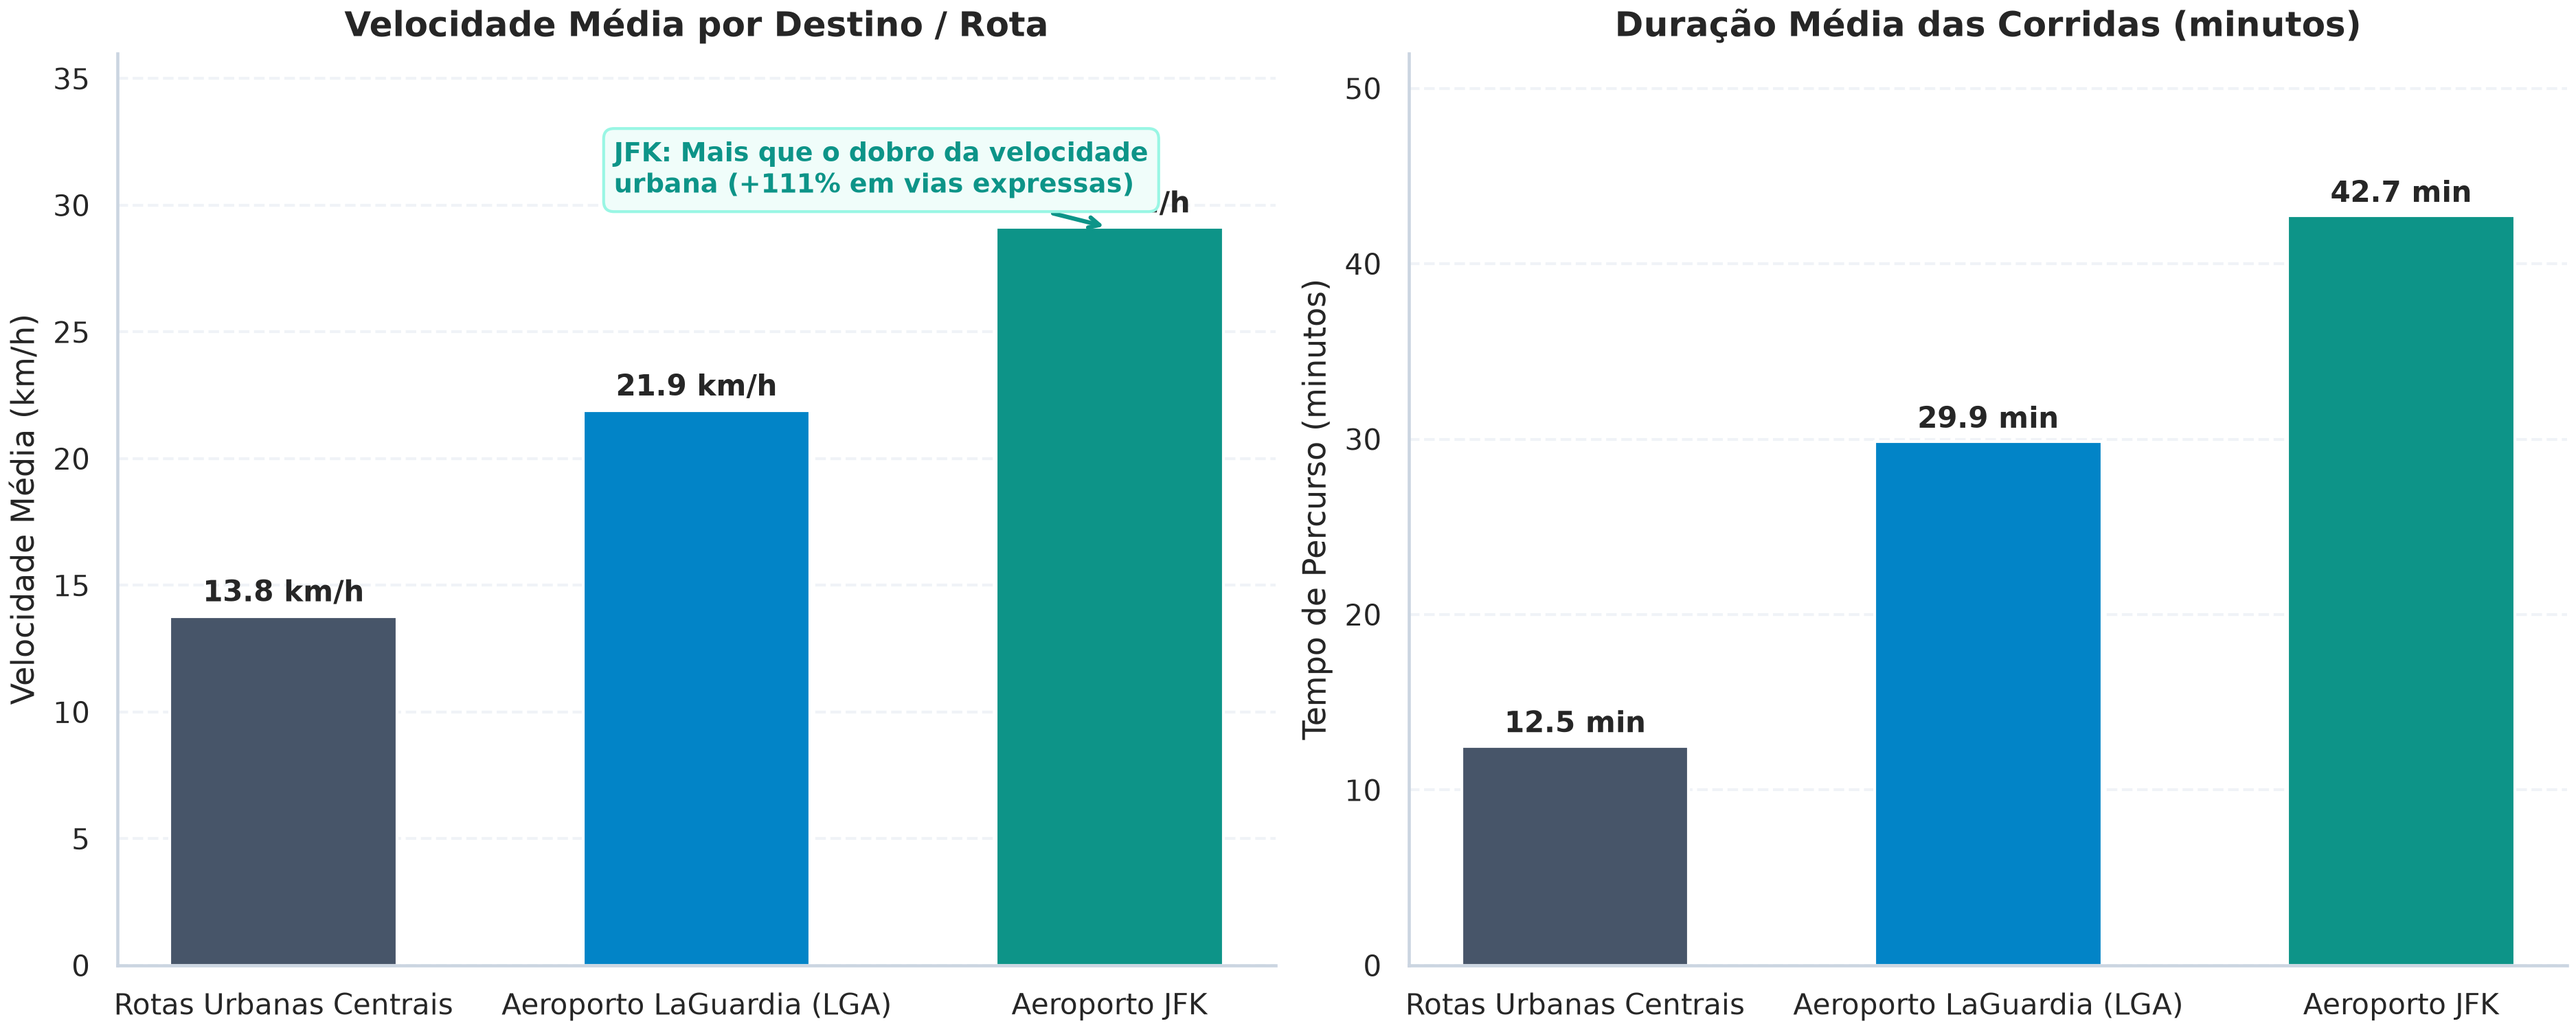
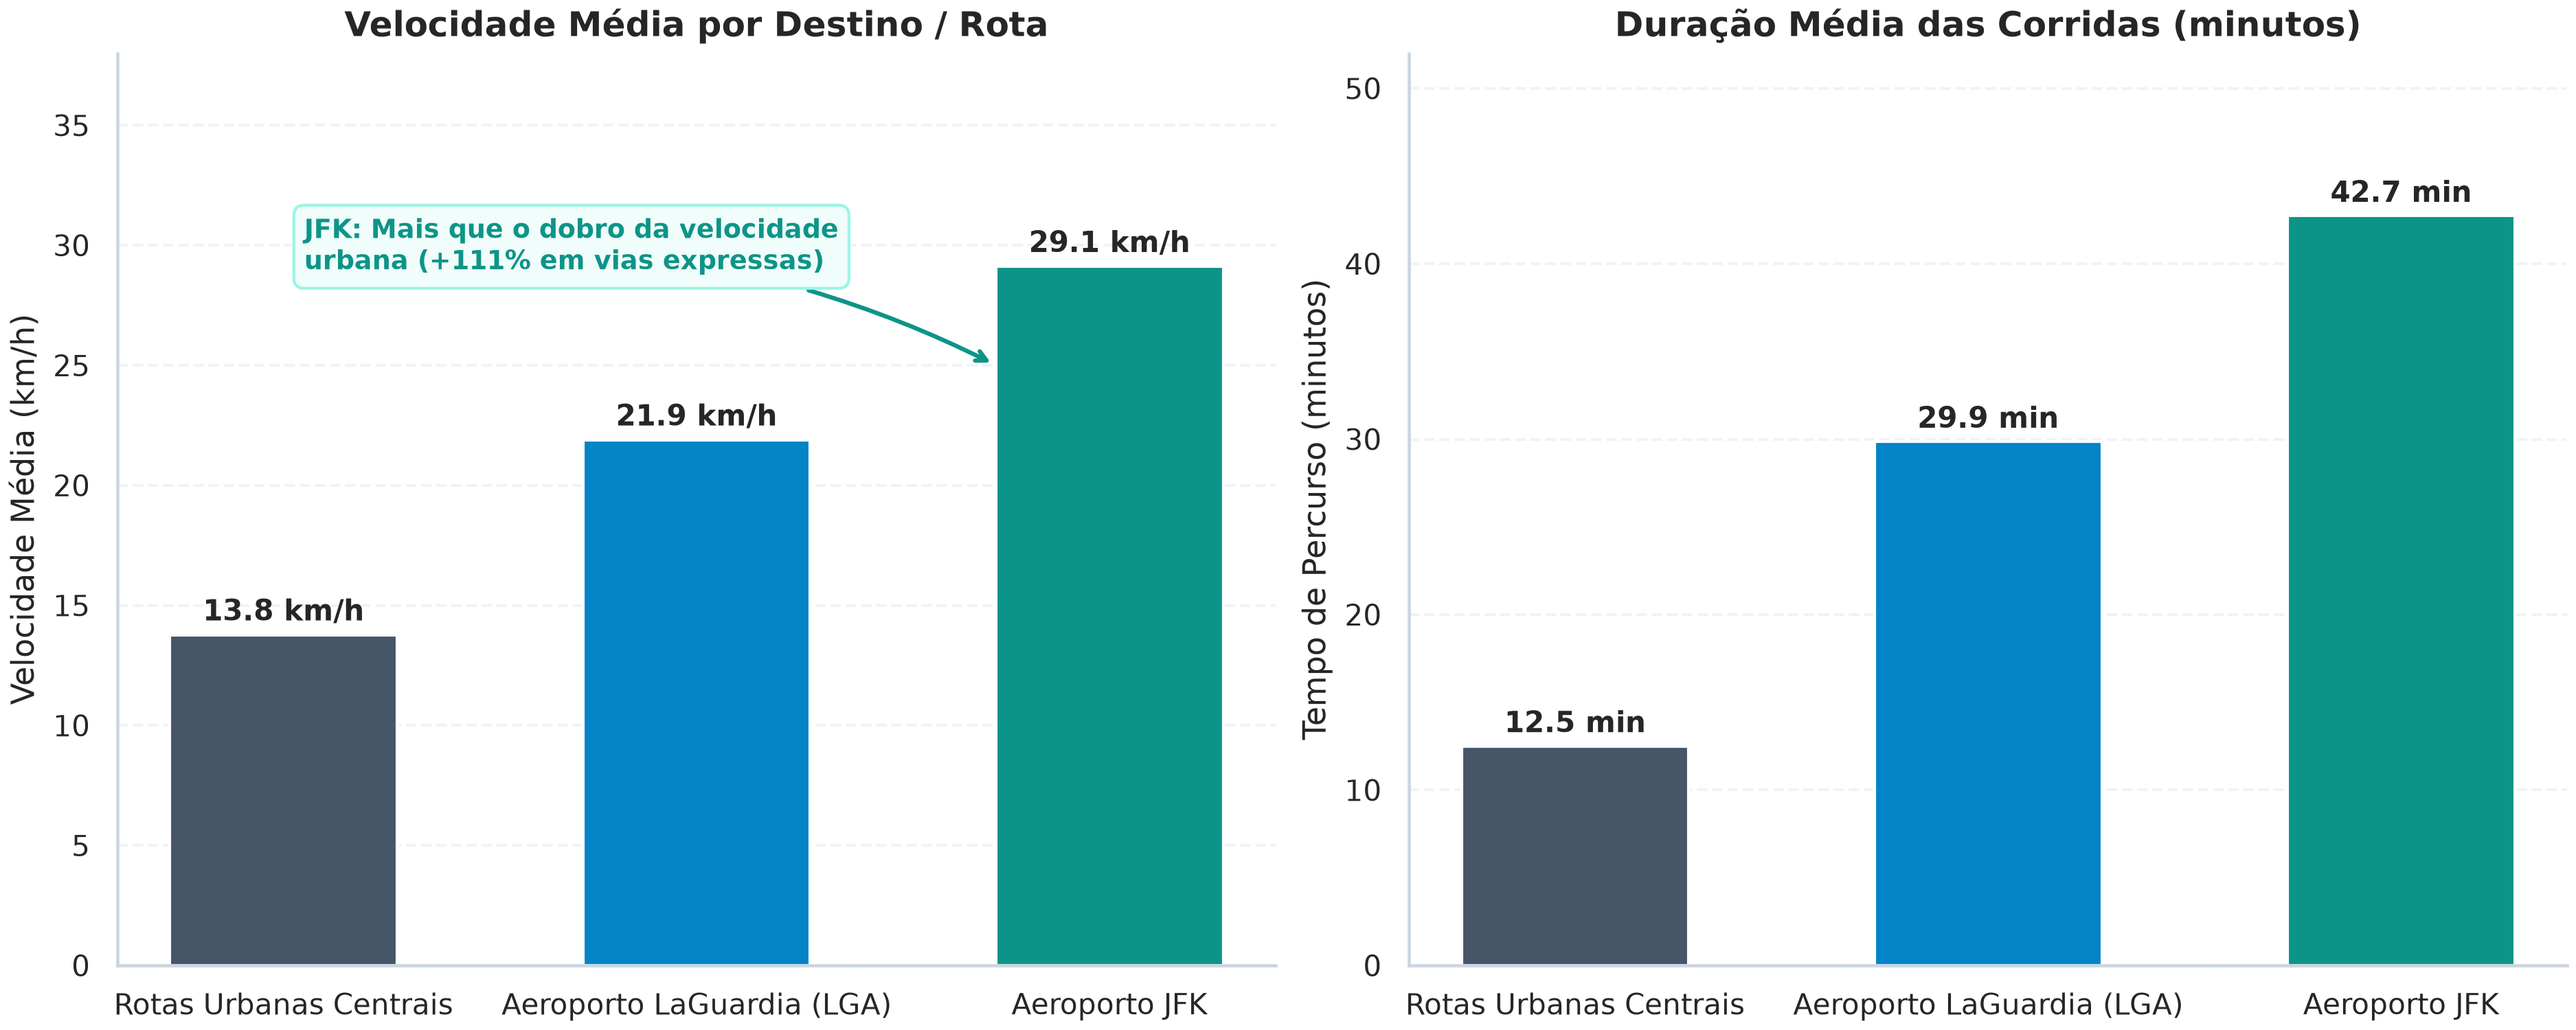
fix: reposiciona anotacao do grafico de aeroportos para evitar sobreposicao

diff --git a/src/evaluate.py b/src/evaluate.py
@@ -375,7 +375,7 @@ def plot_airport_vs_urban(df: pd.DataFrame, out_file: Path):
 
     # Painel 1: Velocidade Média (km/h)
     bars1 = ax1.bar(stats.index, stats["speed_mean"], color=colors, width=0.55)
-    ax1.set_ylim(0, 36)
+    ax1.set_ylim(0, 38)
     ax1.set_title("Velocidade Média por Destino / Rota", fontsize=12, fontweight="bold")
     ax1.set_ylabel("Velocidade Média (km/h)", fontsize=11)
     ax1.grid(True, axis="y", alpha=0.5)
@@ -387,9 +387,14 @@ def plot_airport_vs_urban(df: pd.DataFrame, out_file: Path):
 
     ax1.annotate(
         "JFK: Mais que o dobro da velocidade\nurbana (+111% em vias expressas)",
-        xy=(2, stats.loc["Aeroporto JFK", "speed_mean"]),
-        xytext=(0.8, 30.5),
-        arrowprops=dict(arrowstyle="->", color="#0d9488", lw=1.5),
+        xy=(1.725, 25.0),
+        xytext=(0.05, 29.0),
+        arrowprops=dict(
+            arrowstyle="->",
+            color="#0d9488",
+            lw=1.5,
+            connectionstyle="arc3,rad=-0.1",
+        ),
         fontsize=9,
         fontweight="bold",
         color="#0d9488",
